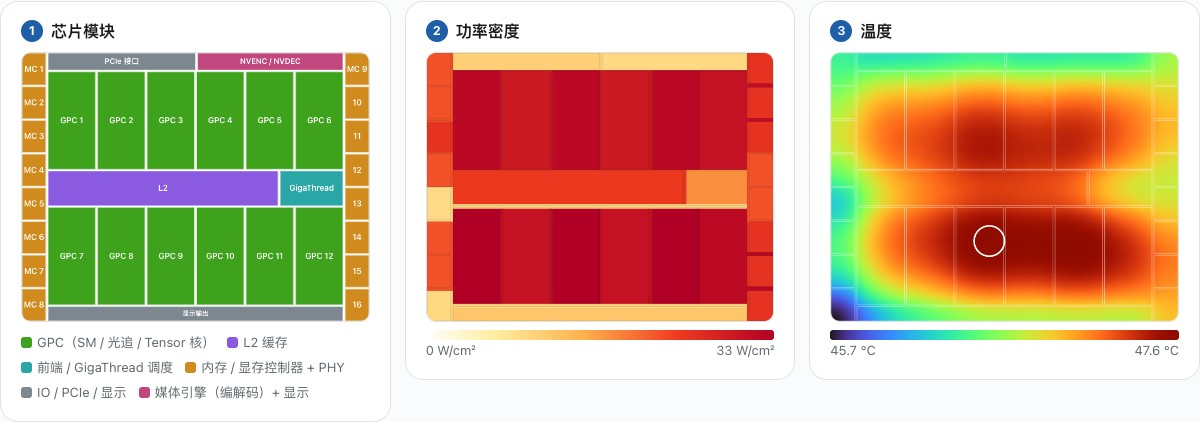
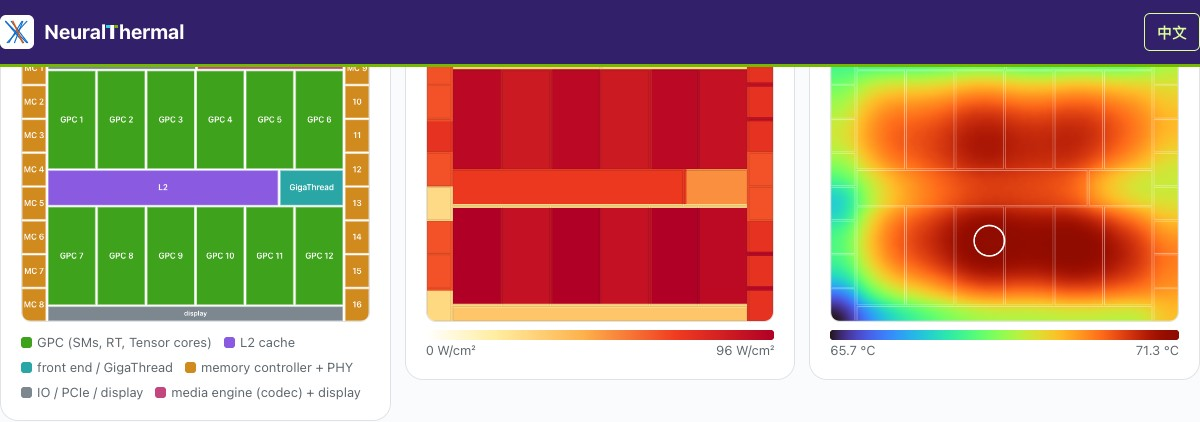
Ground chip exploration in structural references and explicit operating conditions

diff --git a/public/tools/chip-thermal/catalog.js b/public/tools/chip-thermal/catalog.js
@@ -34,9 +34,9 @@ window.TML_CATALOG = {
     { id: 'u9-185h', name: 'Intel Core Ultra 9 185H', type: LT, arch: 'Meteor Lake · Intel 4', cores: '6P + 8E + 2LPE / 22T · 8 Xe · NPU 11 TOPS', clock: 'P 2.3 / 5.1 GHz', tdp: '45 W / 115 W', tdpW: 45, tj: { zh: '最高工作温度 110 °C', en: 'max operating 110 °C' }, tjC: 110, die: { zh: '计算 69.7 + GPU 44.3 + SoC 100.2 + IO 27.4 mm²', en: 'compute 69.7 + GPU 44.3 + SoC 100.2 + IO 27.4 mm²' }, dieMm2: 241.6, tiles: MTL, R: 1.0, Ta: 40, src: [IS + '236849/specifications.html', 'https://en.wikipedia.org/wiki/Meteor_Lake'] },
     { id: 'u7-155h', name: 'Intel Core Ultra 7 155H', type: LT, arch: 'Meteor Lake · Intel 4', cores: '6P + 8E + 2LPE / 22T · 8 Xe', clock: 'P 1.4 / 4.8 GHz', tdp: '28 W / 115 W', tdpW: 28, tj: { zh: '最高工作温度 110 °C', en: 'max operating 110 °C' }, tjC: 110, die: { zh: '计算 69.7 + GPU 44.3 + SoC 100.2 + IO 27.4 mm²', en: 'compute 69.7 + GPU 44.3 + SoC 100.2 + IO 27.4 mm²' }, dieMm2: 241.6, tiles: MTL, R: 1.2, Ta: 40, src: [IS + '236847/intel-core-ultra-7-processor-155h-24m-cache-up-to-4-80-ghz/specifications.html', 'https://en.wikipedia.org/wiki/Meteor_Lake'] },
     { id: 'u5-125h', name: 'Intel Core Ultra 5 125H', type: LT, arch: 'Meteor Lake · Intel 4', cores: '4P + 8E + 2LPE / 18T · 7 Xe · NPU 11 TOPS', clock: 'P 1.2 / 4.5 GHz', tdp: '28 W / 115 W', tdpW: 28, tj: { zh: '最高工作温度 110 °C', en: 'max operating 110 °C' }, tjC: 110, die: { zh: '按同一组 Meteor Lake tile 计算，启用 4 个 P 核（推断）', en: 'modelled with the same Meteor Lake tiles, 4 P-cores on (inferred)' }, dieMm2: 241.6, dieEst: true, tiles: { p: 6, pOn: 4, e: 2, lpe: 2, mm: MTL.mm }, R: 1.2, Ta: 40, src: [IS + '236848/specifications.html', 'https://en.wikipedia.org/wiki/Meteor_Lake'] },
-    { id: 'u9-288v', name: 'Intel Core Ultra 9 288V', type: LT, arch: 'Lunar Lake · TSMC N3B', cores: '4P + 4LPE / 8T · Arc 140V 8 Xe2 · NPU 48 TOPS', clock: 'P 3.3 / 5.1 GHz', tdp: '30 W / 37 W', tdpW: 37, tj: 'Tj 100 °C', tjC: 100, die: { zh: '计算 140 + 平台控制 46 mm² · 内存在封装上', en: 'compute 140 + PCD 46 mm² · memory on package' }, dieMm2: 186, template: 'laptop', src: [IS + '240961/specifications.html', 'https://en.wikipedia.org/wiki/Lunar_Lake'] },
-    { id: 'u7-258v', name: 'Intel Core Ultra 7 258V', type: LT, arch: 'Lunar Lake · TSMC N3B', cores: '4P + 4LPE · Arc 140V 8 Xe2 · NPU 47 TOPS', clock: 'P 2.2 / 4.8 GHz', tdp: '17 W / 37 W', tdpW: 37, tj: { zh: '最高工作温度 100 °C', en: 'max operating 100 °C' }, tjC: 100, die: { zh: '计算 140 + 平台控制 46 mm² · 内存在封装上', en: 'compute 140 + PCD 46 mm² · memory on package' }, dieMm2: 186, template: 'laptop', src: [IS + '240957/intel-core-ultra-7-processor-258v-12m-cache-up-to-4-80-ghz/specifications.html', 'https://en.wikipedia.org/wiki/Lunar_Lake'] },
-    { id: 'u5-226v', name: 'Intel Core Ultra 5 226V', type: LT, arch: 'Lunar Lake · TSMC N3B', cores: '4P + 4LPE / 8T · Arc 130V 7 Xe2 · NPU 40 TOPS', clock: 'P 2.1 / 4.5 GHz', tdp: '17 W / 37 W', tdpW: 17, tj: 'Tj 100 °C', tjC: 100, die: { zh: '按同一组 Lunar Lake tile 计算', en: 'modelled with the same Lunar Lake tiles' }, dieMm2: 186, dieEst: true, template: 'laptop', src: [IS + '240960/specifications.html', 'https://en.wikipedia.org/wiki/Lunar_Lake'] },
+    { id: 'u9-288v', name: 'Intel Core Ultra 9 288V', type: LT, arch: 'Lunar Lake · TSMC N3B', cores: '4P + 4LPE / 8T · Arc 140V 8 Xe2 · NPU 48 TOPS', clock: 'P 3.3 / 5.1 GHz', tdp: '30 W / 37 W', tdpW: 37, tj: 'Tj 100 °C', tjC: 100, die: { zh: '计算 140 + 平台控制 46 mm² · 内存在封装上', en: 'compute 140 + PCD 46 mm² · memory on package' }, dieMm2: 186, template: 'lunar', src: [IS + '240961/specifications.html', 'https://en.wikipedia.org/wiki/Lunar_Lake'] },
+    { id: 'u7-258v', name: 'Intel Core Ultra 7 258V', type: LT, arch: 'Lunar Lake · TSMC N3B', cores: '4P + 4LPE · Arc 140V 8 Xe2 · NPU 47 TOPS', clock: 'P 2.2 / 4.8 GHz', tdp: '17 W / 37 W', tdpW: 37, tj: { zh: '最高工作温度 100 °C', en: 'max operating 100 °C' }, tjC: 100, die: { zh: '计算 140 + 平台控制 46 mm² · 内存在封装上', en: 'compute 140 + PCD 46 mm² · memory on package' }, dieMm2: 186, template: 'lunar', src: [IS + '240957/intel-core-ultra-7-processor-258v-12m-cache-up-to-4-80-ghz/specifications.html', 'https://en.wikipedia.org/wiki/Lunar_Lake'] },
+    { id: 'u5-226v', name: 'Intel Core Ultra 5 226V', type: LT, arch: 'Lunar Lake · TSMC N3B', cores: '4P + 4LPE / 8T · Arc 130V 7 Xe2 · NPU 40 TOPS', clock: 'P 2.1 / 4.5 GHz', tdp: '17 W / 37 W', tdpW: 17, tj: 'Tj 100 °C', tjC: 100, die: { zh: '按同一组 Lunar Lake tile 计算', en: 'modelled with the same Lunar Lake tiles' }, dieMm2: 186, dieEst: true, template: 'lunar', src: [IS + '240960/specifications.html', 'https://en.wikipedia.org/wiki/Lunar_Lake'] },
     { id: 'x-8592', name: 'Intel Xeon Platinum 8592+', type: { zh: '服务器 CPU', en: 'Server CPU' }, arch: 'Emerald Rapids · Intel 7', cores: '64C / 128T · 320 MB', clock: '1.9 / 3.9 GHz', tdp: '350 W', tdpW: 350, tj: { zh: 'DTS 最高 98 °C', en: 'DTS max 98 °C' }, die: '', src: ['https://www.intel.com/content/www/us/en/products/sku/237261/intel-xeon-platinum-8592-processor-320m-cache-1-90-ghz/specifications.html'] },
     { id: 'x-6980p', name: 'Intel Xeon 6980P', type: { zh: '服务器 CPU', en: 'Server CPU' }, arch: 'Granite Rapids-AP · Intel 3', cores: '128C / 256T · 504 MB L3', clock: '2.0 / 3.9 GHz (2°)', tdp: '500 W (2°)', tdpW: 500, tj: { zh: '来源不一（80 / 95 °C）', en: 'sources conflict (80 / 95 °C)' }, die: '', src: ['https://www.scan.co.uk/products/intel-xeon-6980p-fclga7529-granite-rapids-128-cores-256-threads-2ghz-39ghz-turbo-504mb-cache-500w-oe', 'https://www.phoronix.com/review/intel-xeon-6980p-performance/11'] },
     /* --- AMD --- */
@@ -222,3 +222,19 @@ window.TML_GPU = function (g) {
     note: { zh: (hbm ? 'HBM 堆叠在硅片外，未建模；默认功耗为整个模块额定值（含 HBM）' : '默认功耗为整卡功耗（含显存、供电损耗）') + '，芯片本身略低，结果偏保守。' + (g.gpcEst ? 'GA106 的 GPC 数未在一手资料中核实。' : ''),
       en: (hbm ? 'HBM stacks sit beside the die and are not modelled; default power is the whole module rating (incl. HBM)' : 'Default power is total board power (incl. memory and VRM losses)') + ', so results are conservative.' + (g.gpcEst ? ' GA106 GPC count not verified from a primary source.' : '') } };
 };
+
+// Functional tile partition follows Intel; internal block positions and power shares remain schematic.
+(function () {
+  var base = window.TML_TEMPLATES.laptop;
+  var height = 0.68, gap = 0.035, pctHeight = height * 46 / 140;
+  window.TML_TEMPLATES.lunar = {
+    aspect: 1.4, mono: false, R: 1.2, Ta: 40, ihs: false,
+    note: { zh: 'Lunar Lake：计算芯粒 + 平台控制芯粒；计算芯粒内含 4P、4E、GPU、NPU。按现有面积估计值绘制比例，内部位置为示意；未建模封装内存和垂直堆叠。', en: 'Lunar Lake: compute tile + platform controller tile; 4P, 4E, GPU and NPU in the compute tile. Proportions use the existing area estimates; internal positions are schematic. Package memory and vertical stacking are not modelled.' },
+    blocks: base.blocks.map(function (b) { return {k:b.k, n:b.n, r:[b.r[0], 0.02+b.r[1]*height, b.r[2], b.r[3]*height]}; }).concat([{k:'io',n:'Platform Controller',r:[0.02,0.02+height+gap,0.96,pctHeight]}]),
+    loads: base.loads,
+    regions: [{n:'Compute Tile',r:[0.02,0.02,0.96,height]}, {n:'Platform Controller Tile',r:[0.02,0.02+height+gap,0.96,pctHeight]}]
+  };
+  window.TML_CATALOG.chips.filter(function (c) {return c.template === 'lunar';}).forEach(function (c) {
+    c.src.push('https://download.intel.com/newsroom/2024/client-computing/Lunar-Lake-Architecture-Fact-Sheet.pdf');
+  });
+})();

diff --git a/public/tools/chip-thermal/lab.js b/public/tools/chip-thermal/lab.js
@@ -9,6 +9,10 @@
 
   var STR = {
     zh: {
+      refTitle: '结构与资料', gallery: '裸片图库', annotations: '结构标注',
+      refIntro: '规格见型号旁的来源链接；下列图库可用于对照结构，第三方标注含推断。',
+      refThermal: '温度对应上方工况，由本页模型计算；尚未经过对应型号的实测校准。',
+      scenario: '当前模拟工况', structure: '当前结构示意',
       label: '芯片热实验室',
       chip: '芯片',
       load: '负载',
@@ -16,9 +20,9 @@
       rth: '散热热阻',
       tamb: '冷却温度',
       ihs: '铜均热盖（IHS）',
-      p3Fp: '芯片模块',
+      p3Fp: '结构示意',
       p3Pw: '功率密度',
-      p3T: '温度',
+      p3T: '模拟温度',
       mHoverHint: '鼠标移到任一张图上，三张图同步读数。',
       modTitle: '各模块功耗与温度',
       modKind: '模块',
@@ -42,6 +46,10 @@
       foot: '“功率与温度”为简化模拟，不是实测。芯片模块图按公开参数生成，是示意，不是厂商版图。芯片规格来自厂商产品页等公开资料，见各型号的来源链接。本页离线运行。'
     },
     en: {
+      refTitle: 'Structure & references', gallery: 'Die gallery', annotations: 'Annotated dies',
+      refIntro: 'Specifications are linked beside each model. Use these galleries for structural reference; third-party annotations include inferences.',
+      refThermal: 'Temperatures are computed for the conditions above, without chip-specific measurement calibration.',
+      scenario: 'Current simulation', structure: 'Current schematic',
       label: 'Chip thermal lab',
       chip: 'Chip',
       load: 'Load',
@@ -49,9 +57,9 @@
       rth: 'Cooling resistance',
       tamb: 'Coolant',
       ihs: 'Copper lid (IHS)',
-      p3Fp: 'Modules',
+      p3Fp: 'Structure schematic',
       p3Pw: 'Power density',
-      p3T: 'Temperature',
+      p3T: 'Simulated temperature',
       mHoverHint: 'Hover over any map to read all three at the same spot.',
       modTitle: 'Power and temperature by module',
       modKind: 'Module',
@@ -124,6 +132,7 @@
     $('mT').value = c.Ta || tp.Ta || 35; $('mIhs').checked = !!tp.ihs; $('mIhs').parentNode.style.display = tp.ihs ? '' : 'none';
     $('mLoad').innerHTML = Object.keys(tp.loads).map(function (k) { return '<option value="' + k + '">' + esc(L2(tp.loads[k].name)) + '</option>'; }).join('');
     $('mSpec').innerHTML = '<b>' + esc(c.name) + '</b> · ' + [c.arch, c.cores, c.tdp, c.tj, c.die].map(L2).filter(Boolean).map(esc).join(' · ') + ' ' + srcLinks(c);
+    $('mStructure').textContent = t('structure') + ' · ' + c.arch + ' · ' + L2(tp.note || (LANG === 'zh' ? '按公开模块数量绘制，位置和面积分配为示意。' : 'Generated from public module counts; positions and area allocation are schematic.'));
     simRun();
   }
   function simLoad() { /* light loads (single core, video encode) start from a lower total power */
@@ -166,6 +175,7 @@
     var tp = tplFor(c), load = tp.loads[$('mLoad').value] || tp.loads[Object.keys(tp.loads)[0]];
     var P = +$('mP').value, R = Math.pow(10, +$('mR').value), Ta = +$('mT').value, ihs = tp.ihs ? $('mIhs').checked : false;
     $('mPv').textContent = P + ' W'; $('mRv').textContent = R.toFixed(R < 0.1 ? 3 : 2) + ' K/W'; $('mTv').textContent = Ta + ' °C';
+    $('mScenario').textContent = t('scenario') + ' · ' + L2(load.name) + ' · ' + P + ' W · ' + t('rth') + ' ' + R.toFixed(3) + ' K/W · ' + t('tamb') + ' ' + Ta + ' °C' + (tp.ihs ? ' · IHS ' + (ihs ? 'ON' : 'OFF') : '');
     /* domain: template aspect, area scaled so that the silicon covers c.dieMm2 (monolithic dies: the whole rectangle is silicon) */
     var nx = 80, ny = Math.round(80 / (tp.aspect || 1)), blocks = tp.blocks;
     var dieFrac = tp.mono ? 1 : blocks.reduce(function (s, b) { return s + b.r[2] * b.r[3]; }, 0), Adom = c.dieMm2 / dieFrac * 1e-6, dx = Math.sqrt(Adom / (nx * ny));
@@ -212,6 +222,7 @@
     for (i = 0; i < f.length; i++) if (!onDie[i]) f[i] = lo;
     var S = 8, W = nx * S, H = ny * S;
     drawFloor(blocks, nx, ny, S, tp.mono);
+    if (tp.regions) outline($('mfp').getContext('2d'), tp.regions, W, H, '#32216b');
     var pctx = big($('mpw'), pd, nx, ny, 0, pmax || 1, TML.LUT.heat, S, false);
     outline(pctx, blocks, W, H, 'rgba(22,24,26,.18)');
     var ctx = big($('mcv'), f, nx, ny, lo, hi, TML.LUT.turbo, S, true);

diff --git a/public/tools/chip-thermal/index.html b/public/tools/chip-thermal/index.html
@@ -34,6 +34,7 @@
       </div>
       <p class="spec" id="mSpec"></p>
     </div>
+    <p class="scenario" id="mScenario" aria-live="polite"></p>
     <div class="tri3">
       <div class="card"><h3><span class="stepn">1</span><span data-t="p3Fp">芯片模块</span></h3>
         <div class="mapwrap"><canvas id="mfp" class="map fp"></canvas></div>
@@ -49,6 +50,16 @@
     <div class="kpis" id="mKpis"></div>
     <div class="card scroll mt"><h3 data-t="modTitle">各模块功耗与温度</h3><table class="tbl" id="mTbl"></table></div>
     <p class="note" id="mNote"></p>
+    <details class="card references">
+      <summary data-t="refTitle">结构与资料</summary>
+      <p id="mStructure"></p>
+      <p data-t="refIntro"></p>
+      <div class="reference-links">
+        <a href="https://kurnal-insights.com/en/dieshot/" target="_blank" rel="noopener">Kurnal · <span data-t="gallery">裸片图库</span> ↗</a>
+        <a href="https://nemez.net/die/" target="_blank" rel="noopener">Nemez · <span data-t="annotations">结构标注</span> ↗</a>
+      </div>
+      <p data-t="refThermal"></p>
+    </details>
   </section>
 </main>
 <footer class="foot"><div class="wrap foot-in"><span class="brand dark" id="brand2"></span><p id="foot"></p></div></footer>

diff --git a/public/tools/chip-thermal/lab.css b/public/tools/chip-thermal/lab.css
@@ -133,3 +133,5 @@ canvas.chart.short { height: 130px; }
 }
 #mTbl td { white-space: nowrap; }
 .lang { margin-left: auto; }
+
+.scenario{font-size:16px;line-height:1.7;padding:14px 18px;background:#eef3f8;border-radius:12px;overflow-wrap:anywhere}.references{margin:24px 0}.references summary{font-size:20px;font-weight:600;cursor:pointer}.references p{font-size:16px;line-height:1.7}.reference-links{display:flex;gap:24px;flex-wrap:wrap}.reference-links a{font-size:17px}
